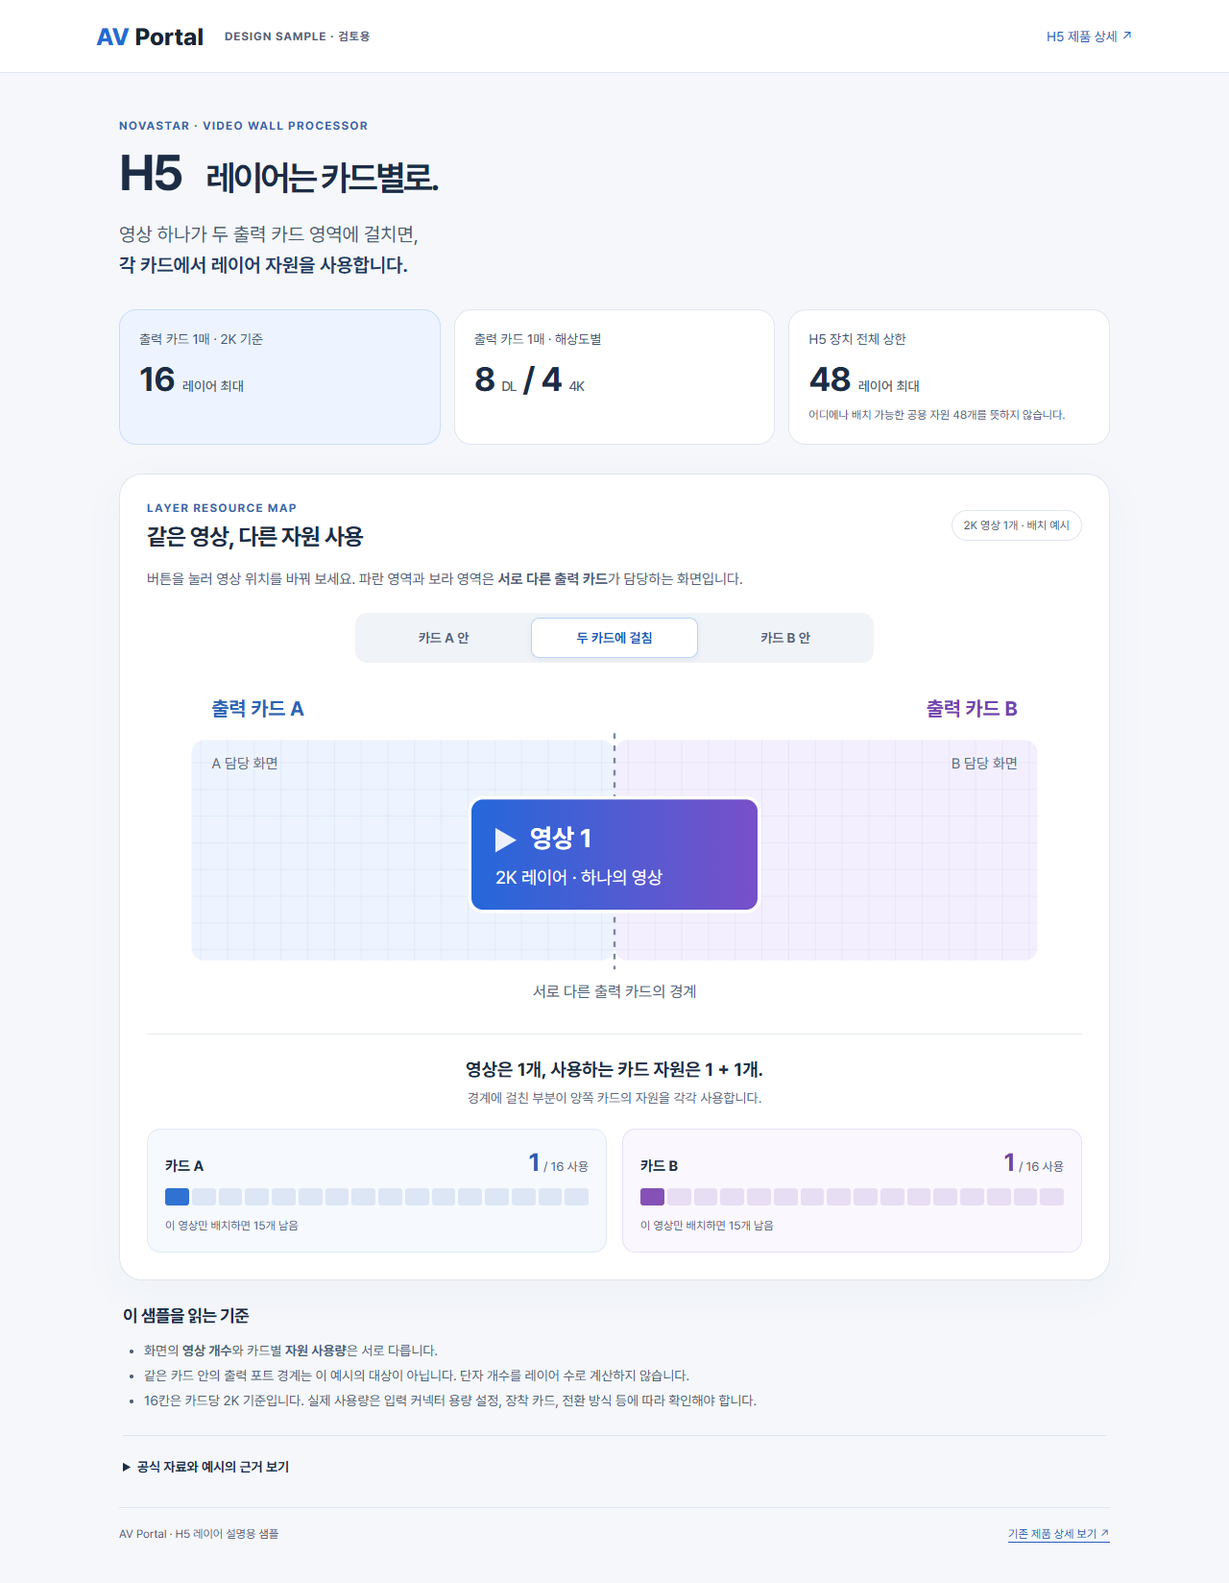
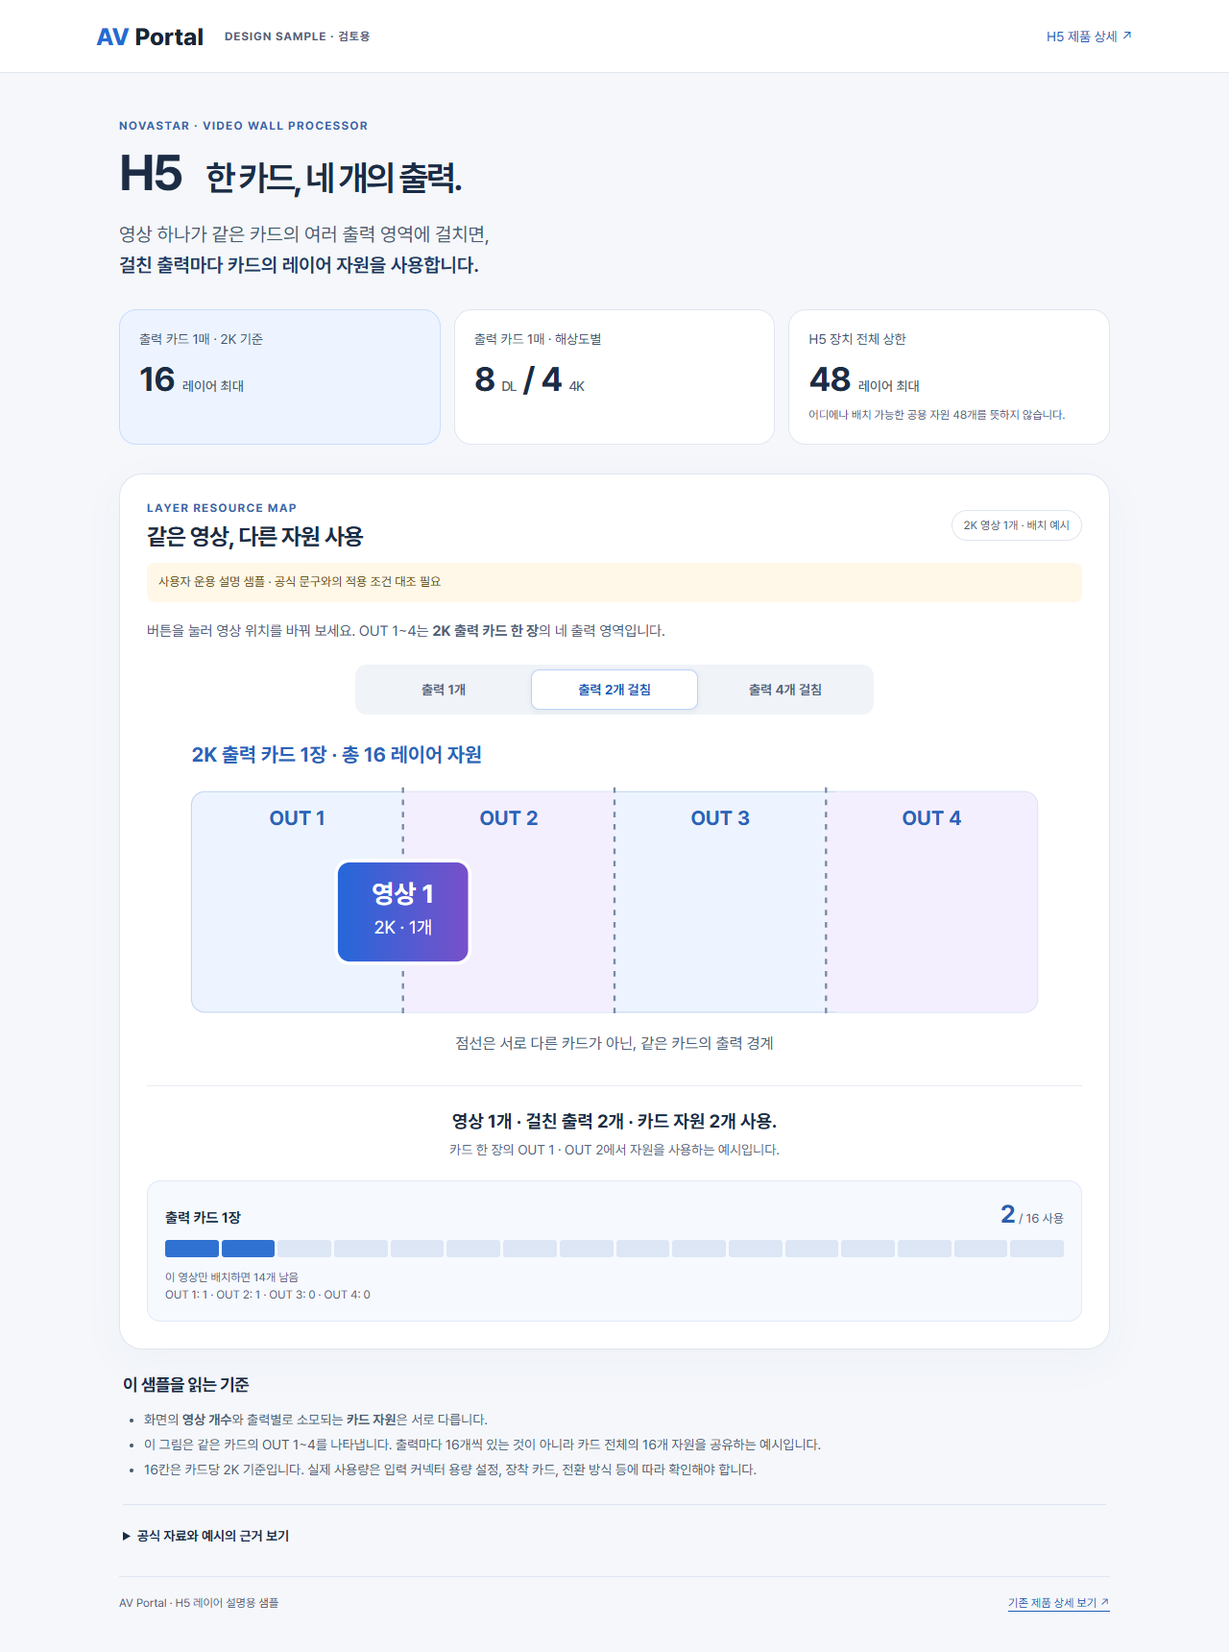
fix: show H5 resource usage across outputs of one card

diff --git a/beta/site/samples/h5-layers/index.html b/beta/site/samples/h5-layers/index.html
@@ -7,16 +7,16 @@
   <meta name="description" content="NovaStar H5 출력 카드별 2K 레이어 자원을 설명하는 검토용 샘플입니다.">
   <title>H5 레이어 구성 샘플 · AV Portal</title>
   <link rel="icon" href="../../favicon.svg">
-  <link rel="stylesheet" href="./styles.css?v=h5-sample-1">
-  <script type="module" src="./app.js?v=h5-sample-1"></script>
+  <link rel="stylesheet" href="./styles.css?v=h5-output-2">
+  <script type="module" src="./app.js?v=h5-output-2"></script>
 </head>
 <body>
   <header class="site-header"><a class="brand" href="../../"><span>AV</span> Portal</a><span class="sample-label">DESIGN SAMPLE · 검토용</span><a class="detail-link" href="../../detail/?product=novastar-h5">H5 제품 상세 ↗</a></header>
   <main>
     <section class="intro" aria-labelledby="page-title">
       <p class="eyebrow">NOVASTAR · VIDEO WALL PROCESSOR</p>
-      <h1 id="page-title">H5 <span>레이어는 카드별로.</span></h1>
-      <p class="lead">영상 하나가 두 출력 카드 영역에 걸치면,<br class="desktop-break"> <strong>각 카드에서 레이어 자원을 사용합니다.</strong></p>
+      <h1 id="page-title">H5 <span>한 카드, 네 개의 출력.</span></h1>
+      <p class="lead">영상 하나가 같은 카드의 여러 출력 영역에 걸치면,<br class="desktop-break"> <strong>걸친 출력마다 카드의 레이어 자원을 사용합니다.</strong></p>
       <div class="facts">
         <div class="fact primary"><span>출력 카드 1매 · 2K 기준</span><p><strong>16</strong><small>레이어 최대</small></p></div>
         <div class="fact"><span>출력 카드 1매 · 해상도별</span><p><strong>8 <small>DL</small> / 4 <small>4K</small></strong></p></div>
@@ -26,46 +26,40 @@
 
     <section class="diagram-card" aria-labelledby="diagram-title">
       <div class="section-head"><div><p class="eyebrow">LAYER RESOURCE MAP</p><h2 id="diagram-title">같은 영상, 다른 자원 사용</h2></div><span class="example-tag">2K 영상 1개 · 배치 예시</span></div>
-      <p class="section-copy">버튼을 눌러 영상 위치를 바꿔 보세요. 파란 영역과 보라 영역은 <strong>서로 다른 출력 카드</strong>가 담당하는 화면입니다.</p>
+      <p class="scope-note">사용자 운용 설명 샘플 · 공식 문구와의 적용 조건 대조 필요</p>
+      <p class="section-copy">버튼을 눌러 영상 위치를 바꿔 보세요. OUT 1~4는 <strong>2K 출력 카드 한 장</strong>의 네 출력 영역입니다.</p>
       <fieldset class="modes" disabled><legend class="sr-only">영상 배치 선택</legend>
-        <label><input type="radio" name="placement" value="left"><span>카드 A 안</span></label>
-        <label><input type="radio" name="placement" value="span" checked><span>두 카드에 걸침</span></label>
-        <label><input type="radio" name="placement" value="right"><span>카드 B 안</span></label>
+        <label><input type="radio" name="placement" value="one"><span>출력 1개</span></label>
+        <label><input type="radio" name="placement" value="two" checked><span>출력 2개 걸침</span></label>
+        <label><input type="radio" name="placement" value="four"><span>출력 4개 걸침</span></label>
       </fieldset>
       <p class="scroll-hint" id="scroll-hint">그림을 좌우로 밀어 전체를 확인하세요 ↔</p>
       <div class="diagram-frame"><div class="diagram-scroll" tabindex="0" role="region" aria-label="레이어 배치 그림. 좌우 방향키로 이동" aria-describedby="scroll-hint">
         <svg viewBox="0 0 840 300" role="img" aria-labelledby="svg-title svg-desc">
-          <title id="svg-title">출력 카드 A와 B에 걸친 영상 한 개</title>
-          <desc id="svg-desc">영상은 한 개지만 서로 다른 두 출력 카드의 영역에 걸쳐 카드 A와 카드 B에서 각각 1개 자원을 사용합니다.</desc>
-          <defs><linearGradient id="layer-fill" x1="0" x2="1"><stop stop-color="#2468da"/><stop offset="1" stop-color="#7950ca"/></linearGradient><pattern id="canvas-grid" width="24" height="24" patternUnits="userSpaceOnUse"><path d="M 24 0 L 0 0 0 24" fill="none" stroke="#b7c7df" stroke-opacity=".35"/></pattern></defs>
-          <rect x="40" y="52" width="380" height="198" rx="12" fill="#edf4ff"/>
-          <rect x="420" y="52" width="380" height="198" rx="12" fill="#f4efff"/>
-          <rect x="40" y="52" width="760" height="198" rx="12" fill="url(#canvas-grid)"/>
-          <text x="58" y="30" class="card-a-label">출력 카드 A</text><text x="782" y="30" text-anchor="end" class="card-b-label">출력 카드 B</text>
-          <text x="58" y="78" class="canvas-label">A 담당 화면</text><text x="782" y="78" text-anchor="end" class="canvas-label">B 담당 화면</text>
-          <line x1="420" x2="420" y1="46" y2="258" stroke="#77879f" stroke-width="2" stroke-dasharray="5 6"/>
-          <g id="video-layer" transform="translate(290 104)">
-            <rect width="260" height="102" rx="12" fill="url(#layer-fill)" stroke="white" stroke-width="3"/>
-            <path d="M 23 27 L 23 49 L 42 38 Z" fill="white" opacity=".9"/>
-            <text x="54" y="44" class="layer-title">영상 1</text><text x="23" y="77" class="layer-caption">2K 레이어 · 하나의 영상</text>
-          </g>
-          <text x="420" y="283" text-anchor="middle" class="boundary-label">서로 다른 출력 카드의 경계</text>
+          <title id="svg-title">한 카드의 OUT 1과 OUT 2에 걸친 영상 한 개</title>
+          <desc id="svg-desc">사용자 운용 설명 예시: 카드 한 장의 두 출력에 걸친 영상 하나가 레이어 자원 두 개를 사용합니다.</desc>
+          <defs><linearGradient id="layer-fill"><stop stop-color="#2468da"/><stop offset="1" stop-color="#7950ca"/></linearGradient></defs>
+          <text x="40" y="25" class="card-a-label">2K 출력 카드 1장 · 총 16 레이어 자원</text>
+          <rect x="40" y="52" width="760" height="198" rx="12" fill="#edf4ff" stroke="#c5d7f0"/>
+          <rect x="230" y="52" width="190" height="198" fill="#f4efff"/>
+          <rect x="610" y="52" width="190" height="198" rx="12" fill="#f4efff"/>
+          <g class="card-a-label" text-anchor="middle"><text x="135" y="82">OUT 1</text><text x="325" y="82">OUT 2</text><text x="515" y="82">OUT 3</text><text x="705" y="82">OUT 4</text></g>
+          <path d="M230 48V254 M420 48V254 M610 48V254" fill="none" stroke="#788aa7" stroke-width="2" stroke-dasharray="5 6"/>
+          <g id="video-layer" transform="translate(170 114)"><rect id="video-rect" width="120" height="92" rx="12" fill="url(#layer-fill)" stroke="white" stroke-width="3"/><text id="video-name" x="60" y="38" text-anchor="middle" class="layer-title">영상 1</text><text id="video-caption" x="60" y="65" text-anchor="middle" class="layer-caption">2K · 1개</text></g>
+          <text x="420" y="283" text-anchor="middle" class="boundary-label">점선은 서로 다른 카드가 아닌, 같은 카드의 출력 경계</text>
         </svg>
       </div></div>
       <div class="result" role="status" aria-live="polite" aria-atomic="true">
-        <p id="result-sentence"><strong>영상은 1개, 사용하는 카드 자원은 1 + 1개.</strong><span>경계에 걸친 부분이 양쪽 카드의 자원을 각각 사용합니다.</span></p>
-        <div class="resource-grid">
-          <div class="resource resource-a"><div><h3>카드 A</h3><p><strong id="used-a">1</strong><span> / 16 사용</span></p></div><div class="slots" id="slots-a" aria-hidden="true"></div><p class="remaining" id="remaining-a">이 영상만 배치하면 15개 남음</p></div>
-          <div class="resource resource-b"><div><h3>카드 B</h3><p><strong id="used-b">1</strong><span> / 16 사용</span></p></div><div class="slots" id="slots-b" aria-hidden="true"></div><p class="remaining" id="remaining-b">이 영상만 배치하면 15개 남음</p></div>
-        </div>
+        <p id="result-sentence"><strong>영상 1개 · 걸친 출력 2개 · 카드 자원 2개 사용.</strong><span>같은 카드 안에서 OUT 1과 OUT 2가 각각 자원을 소모하는 예시입니다.</span></p>
+        <div class="resource resource-a"><div><h3>출력 카드 1장</h3><p><strong id="used-total">2</strong><span> / 16 사용</span></p></div><div class="slots" id="slots-card" aria-hidden="true"></div><p class="remaining" id="remaining-card">이 영상만 배치하면 14개 남음</p><p class="remaining" id="output-usage">OUT 1: 1 · OUT 2: 1 · OUT 3: 0 · OUT 4: 0</p></div>
       </div>
     </section>
 
     <section class="notes" aria-labelledby="notes-title"><h2 id="notes-title">이 샘플을 읽는 기준</h2>
-      <ul><li>화면의 <strong>영상 개수</strong>와 카드별 <strong>자원 사용량</strong>은 서로 다릅니다.</li><li>같은 카드 안의 출력 포트 경계는 이 예시의 대상이 아닙니다. 단자 개수를 레이어 수로 계산하지 않습니다.</li><li>16칸은 카드당 2K 기준입니다. 실제 사용량은 입력 커넥터 용량 설정, 장착 카드, 전환 방식 등에 따라 확인해야 합니다.</li></ul>
+      <ul><li>화면의 <strong>영상 개수</strong>와 출력별로 소모되는 <strong>카드 자원</strong>은 서로 다릅니다.</li><li>이 그림은 같은 카드의 OUT 1~4를 나타냅니다. 출력마다 16개씩 있는 것이 아니라 카드 전체의 16개 자원을 공유하는 예시입니다.</li><li>16칸은 카드당 2K 기준입니다. 실제 사용량은 입력 커넥터 용량 설정, 장착 카드, 전환 방식 등에 따라 확인해야 합니다.</li></ul>
       <details><summary>공식 자료와 예시의 근거 보기</summary><div class="evidence">
         <p><strong>공식 사양:</strong> 저장된 H5 사양서 V1.17.0의 PDF 4쪽에 카드당 2K 16 / DL 8 / 4K 4, 10쪽에 장치 최대 48이 기재되어 있습니다. 8쪽에는 입력 커넥터 용량 및 페이드 전환 제한이 있습니다.</p>
-        <p><strong>운용 설명:</strong> 서로 다른 출력 카드 영역에 걸친 영상이 양쪽 자원을 소모한다는 예시는 사용자가 제공한 설명을 기준으로 만들었습니다. 공식 문서의 ‘cross-connector output’ 문구를 ‘서로 다른 카드에서도 추가 소모 없음’으로 확대 해석하지 않았습니다. 카드·펌웨어별 세부 적용 조건은 추가 확인 대상입니다.</p>
+        <p><strong>운용 설명:</strong> 2026-10-01 사용자 정정: 2K 출력 카드 한 장의 OUT 4개 사이에 영상이 걸치면 출력마다 자원을 소모합니다. 이 샘플은 그 운용 설명을 표현합니다. 공식 PDF 4쪽은 cross-connector output에서 layer quantity가 줄지 않는다고 설명하므로, 두 설명의 적용 조건은 추가 대조가 필요합니다. 이 계산을 제조사 검증 완료 사양으로 취급하지 않습니다.</p>
         <p><strong>설명용 화면:</strong> 실제 장비의 현재 설정, 출력 포트 배치, 영상 크기·해상도 비율을 재현한 화면이 아닙니다. 남은 자원 수는 다른 영상이 없는 이 예시에 한합니다.</p>
         <a href="../../docs/novastar-h5-specification-89119003fed1.pdf#page=4" target="_blank" rel="noopener">H5 공식 사양서 사본 열기 ↗</a>
       </div></details>

diff --git a/beta/site/samples/h5-layers/app.js b/beta/site/samples/h5-layers/app.js
@@ -1,36 +1,18 @@
-import { scenario } from './model.mjs?v=h5-sample-1';
-const $ = id => document.getElementById(id);
-function render(mode) {
-  const p = scenario(mode);
-  $('video-layer').setAttribute('transform', `translate(${p.x} 104)`);
-  const span = p.id === 'span';
-  const name = p.id === 'left' ? 'A' : 'B';
-  const title = span ? '영상은 1개, 사용하는 카드 자원은 1 + 1개.' : `영상은 1개, 카드 ${name}에서만 자원 1개 사용.`;
-  const explanation = span ? '경계에 걸친 부분이 양쪽 카드의 자원을 각각 사용합니다.' : `다른 카드에는 이 영상의 자원이 배정되지 않습니다.`;
-  $('result-sentence').querySelector('strong').textContent = title;
-  $('result-sentence').querySelector('span').textContent = explanation;
-  $('svg-title').textContent = span ? '출력 카드 A와 B에 걸친 영상 한 개' : `출력 카드 ${name} 안의 영상 한 개`;
-  $('svg-desc').textContent = `${title} ${explanation} 사용자 운용 설명에 따른 2K 영상 배치 예시입니다.`;
-  ['a', 'b'].forEach((key, i) => {
-    $(`used-${key}`).textContent = p.used[i];
-    $(`remaining-${key}`).textContent = `이 영상만 배치하면 ${p.remaining[i]}개 남음`;
-    $(`slots-${key}`).replaceChildren(...Array.from({ length: 16 }, (_, n) => {
-      const slot = document.createElement('i');
-      if (n < p.used[i]) slot.className = 'used';
-      return slot;
-    }));
-  });
+import { scenario } from './model.mjs?v=h5-output-2';
+const $=id=>document.getElementById(id);
+function render(mode){
+ const p=scenario(mode);$('video-layer').setAttribute('transform',`translate(${p.x} 114)`);$('video-rect').setAttribute('width',p.width);
+ for(const id of ['video-name','video-caption'])$(id).setAttribute('x',p.width/2);
+ const title=`영상 1개 · 걸친 출력 ${p.totalConsumed}개 · 카드 자원 ${p.totalConsumed}개 사용.`;
+ const usedNames=p.used.flatMap((n,i)=>n?[`OUT ${i+1}`]:[]).join(' · ');
+ $('result-sentence').querySelector('strong').textContent=title;
+ $('result-sentence').querySelector('span').textContent=`카드 한 장의 ${usedNames}에서 자원을 사용하는 예시입니다.`;
+ $('svg-title').textContent=title;$('svg-desc').textContent=`사용자 운용 설명 예시. ${title} 공식 문구와의 적용 조건은 대조가 필요합니다.`;
+ $('used-total').textContent=p.totalConsumed;$('remaining-card').textContent=`이 영상만 배치하면 ${p.remaining}개 남음`;
+ $('output-usage').textContent=p.used.map((n,i)=>`OUT ${i+1}: ${n}`).join(' · ');
+ $('slots-card').replaceChildren(...Array.from({length:16},(_,i)=>{const item=document.createElement('i');if(i<p.totalConsumed)item.className='used';return item;}));
 }
-document.querySelectorAll('input[name="placement"]').forEach(input => input.addEventListener('change', () => render(input.value)));
-const scroll = document.querySelector('.diagram-scroll');
-scroll.addEventListener('keydown', event => {
-  if (!['ArrowLeft', 'ArrowRight', 'Home', 'End'].includes(event.key)) return;
-  event.preventDefault();
-  if (event.key === 'Home') scroll.scrollLeft = 0;
-  else if (event.key === 'End') scroll.scrollLeft = scroll.scrollWidth;
-  else scroll.scrollLeft += event.key === 'ArrowRight' ? 120 : -120;
-});
-render('span');
-document.querySelector('.modes').disabled = false;
-
-requestAnimationFrame(() => { scroll.scrollLeft = Math.max(0, (scroll.scrollWidth - scroll.clientWidth) / 2); });
+document.querySelectorAll('input[name="placement"]').forEach(input=>input.addEventListener('change',()=>render(input.value)));
+const scroll=document.querySelector('.diagram-scroll');
+scroll.addEventListener('keydown',event=>{if(!['ArrowLeft','ArrowRight','Home','End'].includes(event.key))return;event.preventDefault();if(event.key==='Home')scroll.scrollLeft=0;else if(event.key==='End')scroll.scrollLeft=scroll.scrollWidth;else scroll.scrollLeft+=event.key==='ArrowRight'?120:-120;});
+render('two');document.querySelector('.modes').disabled=false;

diff --git a/beta/site/samples/h5-layers/styles.css b/beta/site/samples/h5-layers/styles.css
@@ -8,3 +8,5 @@ main{max-width:1080px;margin:auto;padding:48px 24px 24px}.eyebrow{font-size:12px
 .notes{padding:26px 4px}.notes h2{font-size:18px}.notes ul{font-size:14px;color:#4b5c74;line-height:1.85;padding-left:22px}.notes details{border-top:1px solid #dce4ef;margin-top:22px;padding-top:16px}.notes summary{cursor:pointer;font-size:14px;font-weight:650;padding:8px 0}.evidence{font-size:14px;line-height:1.8;color:#4b5a70;max-width:900px}.evidence a{display:inline-block;padding:8px 0}footer{display:flex;justify-content:space-between;gap:12px;border-top:1px solid #e0e6ef;padding:20px 0;font-size:12px;color:#526179}.sr-only{position:absolute;width:1px;height:1px;clip-path:inset(50%);overflow:hidden;white-space:nowrap}
 @media(max-width:700px){.site-header{padding:16px 20px;gap:12px;min-height:64px}.brand{font-size:22px}.sample-label{font-size:10px;margin-left:auto}.detail-link{display:none}main{padding:30px 16px 16px}h1{font-size:42px}h1 span{display:block;font-size:28px;margin:9px 0 0}.lead{font-size:16px}.desktop-break{display:none}.facts{grid-template-columns:1fr 1fr;gap:10px;margin:22px 0}.fact{padding:16px;border-radius:14px}.fact:first-child{grid-column:1/-1;display:flex;align-items:center;justify-content:space-between}.fact:first-child p{margin:0}.fact>span{font-size:12px}.fact strong{font-size:27px}.fact small{font-size:12px}.fact em{font-size:12px}.diagram-card{padding:20px 14px;border-radius:18px}.section-head{display:block}.example-tag{display:inline-block;margin-top:12px}h2{font-size:22px}.section-copy{font-size:14px;margin:14px 0 18px}.modes{gap:2px;padding:4px;margin-bottom:12px}.modes span{font-size:12px;padding:12px 4px}.scroll-hint{display:block;font-size:12px;color:#53647c;margin:0 0 10px}.diagram-frame{position:relative}.diagram-frame:after{content:'';position:absolute;right:0;top:0;width:22px;height:100%;pointer-events:none;background:linear-gradient(90deg,transparent,#fff)}#result-sentence strong{font-size:16px}#result-sentence span{font-size:13px}.resource-grid{gap:8px}.resource{padding:12px 10px}.resource h3{font-size:13px}.resource strong{font-size:23px}.resource span{font-size:11px}.slots{grid-template-columns:repeat(8,1fr);gap:3px}.slots i{height:12px}.remaining{font-size:12px}.notes{padding:24px 2px}.notes ul{font-size:13px}.evidence{font-size:13px}footer{flex-direction:column;line-height:1.6}}
 @media(prefers-reduced-motion:reduce){*,*::before,*::after{scroll-behavior:auto!important;animation:none!important;transition:none!important}}
+
+.scope-note{font-size:13px;color:#664b14;background:#fff8e8;border-radius:8px;padding:10px 12px;line-height:1.6}

diff --git a/Work/기록/W-20261001-002-Work-인계.md b/Work/기록/W-20261001-002-Work-인계.md
@@ -22,3 +22,9 @@ H5 사양서 V1.17.0 PDF 4쪽의 카드당 한도, 8쪽의 용량·전환 조건
 PR #142 MERGED, main c1f8c19298857cc04b4c47b9de317702c0c8ef67. Pages Run 36861415608 success. 공개 주소 https://seoulav.github.io/AV-Portal/samples/h5-layers/ 에서 1280/390의 세 모드·키보드·스크롤·PDF 링크·새로고침·no-JS 검증 통과. 가로 넘침0·콘솔 오류0. PR140은 OPEN/DRAFT로 유지했다.
 
 - 별도 코드 리뷰: Critical/Important 없음, Minor 2건 수정. JS 미실행 시 버튼 비활성(실패 재현 후 통과), 브라우저 실행 실패 시 로컬 서버 정리(잘못된 실행 경로로 정상 종료 확인). 이후 전체 테스트 155 pass / 0 fail / 1 기존 skip 및 화면 검증 재실행 통과.
+
+
+## 2026-10-01 사용자 정정 — 같은 카드의 네 출력 경계
+이전 “카드 A/B 사이” 설명은 잘못된 해석이다. 최신 사용자 정정은 2K 출력 카드 한 장의 OUT 1~4 사이에 걸친 레이어가 출력마다 자원을 소모한다는 뜻이다. 기존 이력은 당시 기록으로 보존하고 이 정정을 우선한다.
+샘플은 출력1개/2개/4개 걸침으로 바꿨고 카드 전체 자원16 중 1/2/4 사용을 표시한다. 제조사 PDF4쪽의 cross-connector 설명과 사용자 설명의 적용 조건은 미확인으로 명시하여 제조사 검증 사양으로 확정하지 않는다. 기존 제품 JSON은 수정하지 않았다.
+검증: 모델 테스트3pass(정정 전 실패 확인), 전체163pass/0fail/1기존skip, Pages 검사 통과. 1280/390 세 모드·키보드·PDF·새로고침 정상, 높이1720/1782·가로넘침0·콘솔오류0.

diff --git a/Work/작업/W-20261001-002.md b/Work/작업/W-20261001-002.md
@@ -20,3 +20,9 @@ H5 저장 사양서 V1.17.0 물리 PDF4쪽: 카드당2K16/DL8/4K4, cross-connect
 - SVG 대체 설명·선택 상태·reduced motion. 390에서도 작은 글자로 무리하게 축소하지 않음.
 - 테스트와 Pages 아티팩트·검색 인덱스 검사 통과. 샘플 전용 파일 목록만 정확 일치 검사에 추가, 기존 검사 약화 금지.
 - GitHub Pages 성공 후 실제 공개URL을 1280/390에서 확인하고 링크 보고.
+
+
+## 2026-10-01 사용자 정정 — 같은 카드의 네 출력 경계
+이전 “카드 A/B 사이” 설명은 잘못된 해석이다. 최신 사용자 정정은 2K 출력 카드 한 장의 OUT 1~4 사이에 걸친 레이어가 출력마다 자원을 소모한다는 뜻이다. 기존 이력은 당시 기록으로 보존하고 이 정정을 우선한다.
+샘플은 출력1개/2개/4개 걸침으로 바꿨고 카드 전체 자원16 중 1/2/4 사용을 표시한다. 제조사 PDF4쪽의 cross-connector 설명과 사용자 설명의 적용 조건은 미확인으로 명시하여 제조사 검증 사양으로 확정하지 않는다. 기존 제품 JSON은 수정하지 않았다.
+검증: 모델 테스트3pass(정정 전 실패 확인), 전체163pass/0fail/1기존skip, Pages 검사 통과. 1280/390 세 모드·키보드·PDF·새로고침 정상, 높이1720/1782·가로넘침0·콘솔오류0.
